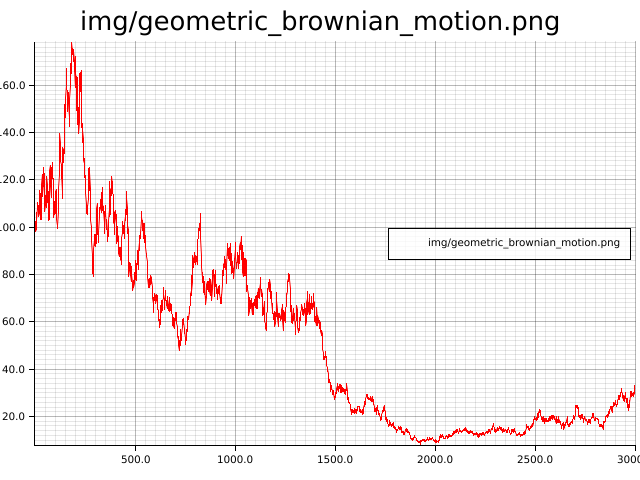
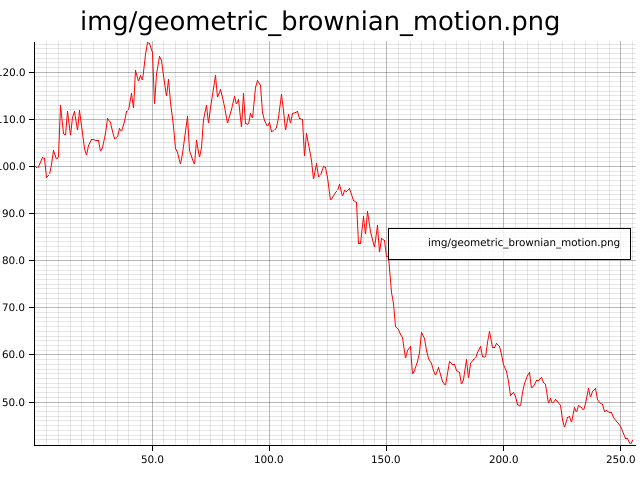
newly rendered images as it had some trouble showing.

Changed region(s): [[0.0, 0.0625, 1.0, 0.9688], [0.0, 0.7188, 0.0625, 0.7812]]

diff --git a/src/geometric_brownian_motion.rs b/src/geometric_brownian_motion.rs
@@ -29,7 +29,13 @@ mod tests {
 
     #[test]
     fn geometric_brownian_motion_plot() -> Result<(), Box<dyn std::error::Error>> {
-        let vals = generate_geometric_brownian_motion(100.0, 1.5 / 365.0, 3_000, 0.15, 0.5);
+        let vals = generate_geometric_brownian_motion(
+            100.0,
+            1.5 / 365.0,
+            256,
+            0.15,
+            0.5
+        );
 
         let filename = "img/geometric_brownian_motion.png";
         plot_values(vals, filename)
